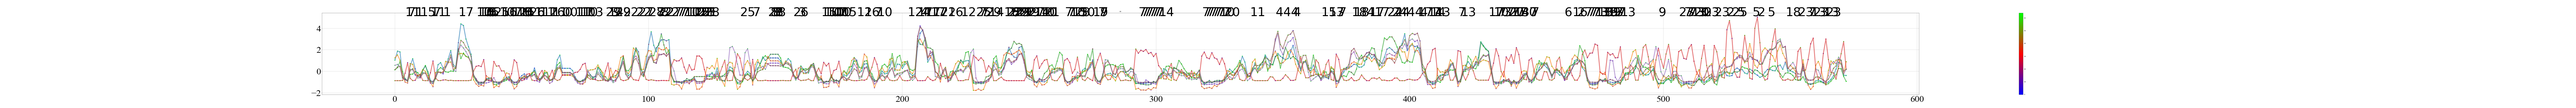
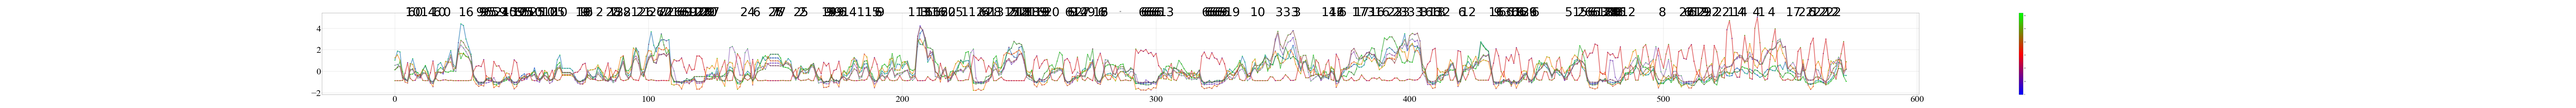
完成密度聚类产生聚类中心输出的修整，令返回结果更好管理。 完成将所有FPtree合并算法，生成关联规则代表的原始多维序列的数据点

Changed region(s): [[0.1556, 0.0571, 0.7158, 0.1714]]

diff --git a/segment_mode.py b/segment_mode.py
@@ -67,12 +67,15 @@ class multi_dimen_data(object):
     def __sub_by_sum(self,other):
         #subminus by same key, and return value by sum of all submission
         return sum([self.data[k]-other.get_by_attr(k) for k in self.data])
+    def show(self):
+        for k in self.data:
+            print(k,':',self.data[k],' ')
 
 class segment_mode(object):
     """
     data_array:in this time, the data is multidimen data
     """
-    def __init__(self,minl,maxl,data_array,name=''):
+    def __init__(self,minl,maxl,data_array,name='',blurry=True,standardlize=True,up_merge=True):
         self.name=name
         self.min_len=minl
         self.max_len=maxl
@@ -81,10 +84,14 @@ class segment_mode(object):
         self.sub_seq_information=[]
         self.sub_dict={}
         self.color_value=[]
-        
-        self._blurry()
-        self._standardlize()
-        self._bottom_up_merge()
+        if blurry==True:
+            self._blurry()
+        if standardlize==True:
+            self._standardlize()
+        if up_merge==True:
+            self._bottom_up_merge()
+        else:
+            self.data_sign=[x[0]for x in self.dataseq]
         pass
     def _blurry(self):
         
@@ -242,9 +249,13 @@ class segment_mode(object):
         #all segment merge finish,then update data_sign
         new_sign=[self.data_sign[0]]
         #the first value always not changed
+        
+        self.data_sign_match_origin_dict={}
+        i=0
         for now_p,diff in now_segment:
-            
+            self.data_sign_match_origin_dict[i]=now_p
             new_sign.append(self.data_sign[now_p[-1]])
+            i=i+1
             pass
         #take a picture
         a=[x for x in range(len(new_sign))]
@@ -265,7 +276,8 @@ class segment_mode(object):
         #get all sub
         w=self.min_len
         #attention that w =1 ,would not use the min_len
-        w=1
+        #w at least be 1 or it will made error
+        #w=1
         for i in range(len(self.data_sign)):
             start=i
             end=i+w
@@ -476,6 +488,22 @@ class segment_mode(object):
     def build_pattern_of_symbol(self,unique_string):
         #unique string is important to differ this time sequence and other
         pattern_of_symbol=[]
+        '''
+        each index of pattern of symbol:
+        pair[0]:start index in data_sign, and also the clustering center. like 3 (only start index recorded.)
+        pair[1]:next time point of pattern, use a tuple to organized. like (1,2,4,5,3), it have pair[0] but it is in the end
+        pair[2]:the value of clustering center in data_sign
+        pair[3]:start index of clustering center in dataseq(origin data), like[5,6]
+        pair[4]:other point in this cluster in dataseq,    like[[1,2],[3,4],[7,8],[9,10,11]]. sum with pair[3] may not be all seq,
+           and, each point should include at least 1 point in dataseq. the upsize and each size of 1 point is not required the same size 
+        to see how point in data_sign represent in dataseq, see:
+            self.data_sign_match_origin_dict[i of data_sign(1 point)]=[1,2,3,...means point in dataseq]
+            if want to make several point in data_sign, use it repeatly and splice and answer.
+        !!! In pair[0] and pair[1] there are only start index recorded now. if want to avoid time overlap(maybe?maynot?)
+            when get intersection of 2 time duration, you can made pair[0] and pair[1] record start and end time.
+        *** you can also get pair[5] as the value of clustering center in dataseq, but thus it will made each index too large.
+            in fact, with pair[3] and pair [4] it became large already.
+        '''
         start_record=[]
         for pair in self.outer_clu:
             s1,e1=pair[0]
@@ -485,11 +513,31 @@ class segment_mode(object):
             hash_key=tuple(key_array)
             #all_start.append(s1)
             #all start position of this cluster
+            
+            temp_list=[]
+            clu_center_in_dataseq=[]
+            temp_list=[self.data_sign_match_origin_dict[s1]]
+            if s1!=e1:
+                for i in range(s1+1,e1+1):
+                    temp_list.append(self.data_sign_match_origin_dict[i])
+            clu_center_in_dataseq.append(temp_list)
+            #we think s1,e1 is a continues time in data_sign, so will in dataseq, so we shouldn't separate
+            #the time. if it is [1,2,3], it will mean [1,2,3,4,5,6] there, not [[1,2],[3,4],[5,6]].
+            #each the element in pair[1] is like this.
+            point_data_sign_in_dataseq=[]
+            temp_list=[]
+            for s2,e2 in pair[1]:
+                temp_list=[self.data_sign_match_origin_dict[s1]]
+                if s2!=e2:
+                    for i in range(s2+1,e2+1):
+                        temp_list.append(self.data_sign_match_origin_dict[i])
+                point_data_sign_in_dataseq.append(temp_list)
             for start in all_start:
                 if start not in start_record:
-                    pattern_of_symbol.append([start,hash_key])
+                    pattern_of_symbol.append([start,hash_key,pair[2],clu_center_in_dataseq,point_data_sign_in_dataseq])
                     start_record.append(start)
             pass
+        
         for pair in self.inner_clu:
             s1,e1=pair[0]
             all_start=[x[0] for x in pair[1]]
@@ -498,24 +546,45 @@ class segment_mode(object):
             hash_key=tuple(key_array)
             #all_start.append(s1)
             #all start position of this cluster
+            temp_list=[]
+            clu_center_in_dataseq=[]
+            temp_list=[self.data_sign_match_origin_dict[s1]]
+            if s1!=e1:
+                for i in range(s1+1,e1+1):
+                    temp_list.append(self.data_sign_match_origin_dict[i])
+            clu_center_in_dataseq.append(temp_list)
+            #we think s1,e1 is a continues time in data_sign, so will in dataseq, so we shouldn't separate
+            #the time. if it is [1,2,3], it will mean [1,2,3,4,5,6] there, not [[1,2],[3,4],[5,6]].
+            #each the element in pair[1] is like this.
+            point_data_sign_in_dataseq=[]
+            temp_list=[]
+            for s2,e2 in pair[1]:
+                temp_list=[self.data_sign_match_origin_dict[s1]]
+                if s2!=e2:
+                    for i in range(s2+1,e2+1):
+                        temp_list.append(self.data_sign_match_origin_dict[i])
+                point_data_sign_in_dataseq.append(temp_list)
             for start in all_start:    
                 if start not in start_record:
-                    pattern_of_symbol.append([start,hash_key])
+                    pattern_of_symbol.append([start,hash_key,pair[2],clu_center_in_dataseq,point_data_sign_in_dataseq])
                     start_record.append(start)
             
             pass
         pattern_of_symbol=sorted(pattern_of_symbol,key=lambda x:x[0])
         self.pattern_symbol=pattern_of_symbol
+        
         return self.pattern_symbol
         pass
     
-    def density_clu(self,draw=False,inner=1,outlier=8,mark_outlier=True):
+    def density_clu(self,draw=False,inner=8,outlier=1,mark_outlier=True):
         #self.data_rou_theta[i]=[(s1,e1),rou,delta,gamma]
         self.data_rou_theta=sorted(self.data_rou_theta,key=lambda x:x[3],reverse=True)
         clu_center=[]
         #clu_center record inner
         out_center=[]
         #out record outer
+        match_data_sign=[]
+        #data of clustering center
         inner_clu_threshold=inner
         outer_clu_threshold=outlier
         if_partition={}
@@ -530,6 +599,7 @@ class segment_mode(object):
             if pair[3]>=inner_clu_threshold:
                 self.min_delta=min(pair[2],self.min_delta)
                 s1,e1=pair[0]
+                match_data_sign=self.data_sign[s1:e1]
                 s1e1_done=False
                 now_center=(s1,e1)
                 now_clu=[]
@@ -576,7 +646,7 @@ class segment_mode(object):
                             #had been divided
                 #often match at least appearence 2 times
                 if len(now_clu)>1:
-                    clu_center.append([now_center,now_clu])
+                    clu_center.append([now_center,now_clu,match_data_sign])
             else:
                 pass
                 #not in clu_center is outlier
@@ -589,6 +659,7 @@ class segment_mode(object):
             for pair in self.data_rou_theta:
                 if pair[3]<outer_clu_threshold:
                     s1,e1=pair[0]
+                    match_data_sign=self.data_sign[s1:e1]
                     s1e1_done=False
                     now_center=(s1,e1)
                     now_clu=[]
@@ -624,7 +695,7 @@ class segment_mode(object):
                                     if_partition[i]=True
                                 #had been divided
                     if len(now_clu)>1:
-                        out_center.append([now_center,now_clu])
+                        out_center.append([now_center,now_clu,match_data_sign])
                 else:
                     pass
             pass
@@ -778,11 +849,28 @@ def show_rules_in_segment_mode(seg_dict,rule,rulenum,width=20):
         
     pass
 
-def build_data_from_FPTree(FPTree=[]):
+def build_data_from_FPTree(FPTree=[],seq=[]):
     '''
     input:
         FPTree=[tree1,tree2,tree3,...]
+        seq=[dataseq1(class segment_mode, it have dataseq),dataseq2,dataseq3,...]
+    return:
+        ret_value=[point of data association rule1, rule2,...]
+        first,list all the effective rules[like node(clu1)=>node(clu2)] in a tree,
+            then, for each rule, find the value the cluster stands for in segment_mode..
+            next, link all the value by time order in one rule, as one data point
+            push it in ret_value
     '''
+    ret_value=[]
+    for tre in FPTree:
+        for r in tre.effective_rule:
+            temp_list=[]
+            for n in r[0]:
+                #n[0][1:] is ok
+                pos=n[0][1]
+                temp_list=temp_list+tre.pos2value_dict[pos]
+            ret_value.append(temp_list)
+    return ret_value
     pass
 
 if __name__=='__main__':
@@ -833,7 +921,7 @@ if __name__=='__main__':
                     ['co',     'no2',      'so2',      'o3',      'pm10',      'pm25']))
             i=i+1
         
-        co_seg=segment_mode(7,8, multi_dimen_seg,'co')
+        co_seg=segment_mode(1,8, multi_dimen_seg,'co')
         
         #finding best dc
         co_seg.dc_factor=0.013
@@ -841,7 +929,7 @@ if __name__=='__main__':
         best_score=0
         best_dc=0
         best_co_seg=0
-        for i in range(1):
+        '''for i in range(1):
             co_seg.slide_cos_search()
             co_seg.density_clu()
             score=len(co_seg.inner_clu)*co_seg.min_delta**2
@@ -851,9 +939,9 @@ if __name__=='__main__':
                 best_dc=co_seg.dc_factor
             print ('min delta',co_seg.min_delta**2,'now score:',score)
             co_seg.dc_factor=co_seg.dc_factor+step
-            
-        co_seg=best_co_seg    
-        co_seg.dc_factor=best_dc
+        '''    
+        #co_seg=best_co_seg    
+        #co_seg.dc_factor=best_dc
         co_seg.slide_cos_search(True)
         co_seg.density_clu(True)
         co_sequence=co_seg.build_pattern_of_symbol('co')
@@ -871,12 +959,12 @@ if __name__=='__main__':
     seg_dict['co']=co_seg.data_sign
 
     for r in ftree.effective_rule:
-        print (r[0][0],'=>',r[0][1],'believe:',r[1])
+        print (r[0][0],'=>',r[0][1],'lift:',r[1])
         show_rules_in_segment_mode(seg_dict,r,i)
         if i>10:
             break
         i=i+1
-    
+    rule_data=build_data_from_FPTree([ftree])
     pass
     '''
         no2_list=site.no2list

diff --git a/FP_tree.py b/FP_tree.py
@@ -26,14 +26,16 @@ class FP_tree(object):
     
     
     def add_sequence(self,raw_seq):
-        #raw_seq must like:
-        #    [ [time1,(name1,signal1)],[time2,(name2,signal2)],....]
+        '''
+        raw_seq must like:
+        #    [ [time1,(name1,signal1),...],[time2,(name2,signal2),...],....]
+            the element after pair[1] will not used.
         #signal must be unique!!
         #need to build a FPTree for a time line
         # one time, one sequence
 #        seq_dict={}
 #        tree_name=raw_seq[0][1][0]
-
+        '''
 #        
         self.time_seq_data.append(raw_seq)
         self.cal_seq_num()
@@ -51,6 +53,7 @@ class FP_tree(object):
         #    key  ,  count
         self.pos2key_dict={}
         #    name , key
+        self.pos2value_dict={}
         #first child
         for raw_x_seq in self.time_seq_data:
             name=raw_x_seq[0][1][0]
@@ -60,9 +63,12 @@ class FP_tree(object):
             
             #count time
             for pair in raw_x_seq:
+                
                 all_position=pair[1][1:]
                 self.key2pos_dict[pair[1]]=all_position
                 for pos in all_position:
+                    if self.pos2value_dict.get(pos)==None:
+                        self.pos2value_dict[pos]=pair[2]
                     if self.pos2key_dict.get(pos)==None:
                         now_key=[]
                     else:
@@ -297,6 +303,11 @@ class FP_tree(object):
             print (k[0],'=>',k[1],'lift:',self.rule_dict[k])
         print ('efective rule size:',len(self.effective_rule))
         for r in self.effective_rule:
+            #in r,
+            #r[0][0]left key, r[0][1] is right key
+            #r[0][][0][0]is mark, r[0][][0][1:] is time
+            #r[1] is lift
+            
             print (r[0][0],'=>',r[0][1],'lift:',r[1])
 #        pass
     
@@ -343,6 +354,8 @@ class FP_tree(object):
             
                 
         pass
+    
+    #the pass of class FPTree
     pass
 
 
@@ -371,9 +384,9 @@ if __name__=='__main__':
     #ftree.add_sequence(d)
     ftree.structure_sub_tree()
     ftree.get_associate_rule()
-    ftree.trim_tree(0.1,0.3,2,2)
-    ftree.show_tree()
-    ftree.get_associate_rule()
+    #ftree.trim_tree(0.1,0.3,2,2)
+    #ftree.show_tree()
+    #ftree.get_associate_rule()
 #    for sub_tree in ftree.sub_tree:
 #        for node in traverse_tree(sub_tree):    
 #            print (node.key,'time:',node.this_node_time,',key ',get_key_array(node))

diff --git a/FP_tree_Node.py b/FP_tree_Node.py
@@ -31,9 +31,9 @@ class FT_tree_Node(object):
             del child_node
         '''
         self.parent=0
-        for child_node_key in self.child:
+        for child_node_key in list(self.child.keys()):
             del self.child[child_node_key]
-            self.child.pop(child_node_key)
+        del self.child
         
     def show(self,index=1):
         print(' '*index,self.name,' ,[',self.this_node_time,'] len:',self.count)
